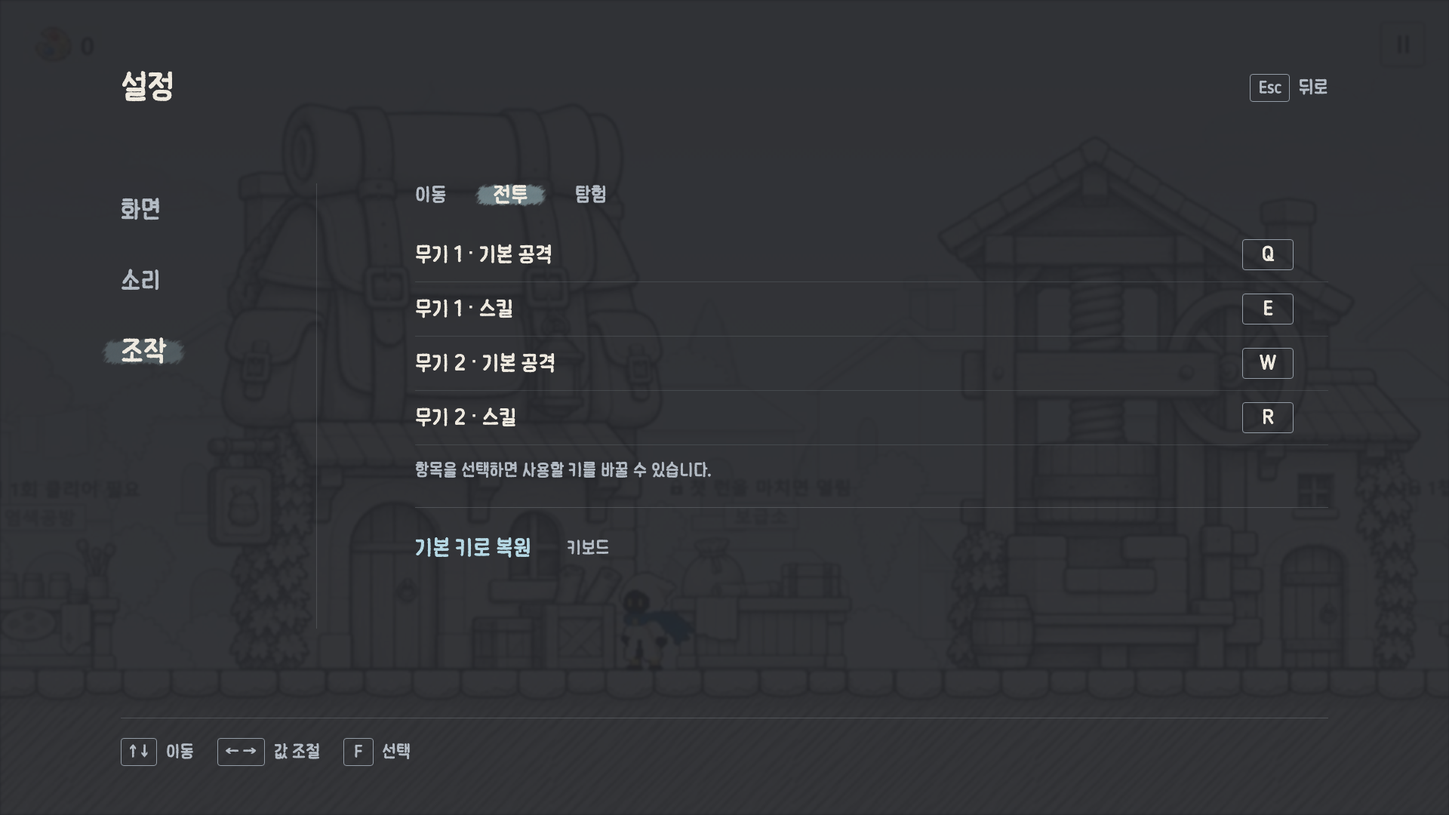
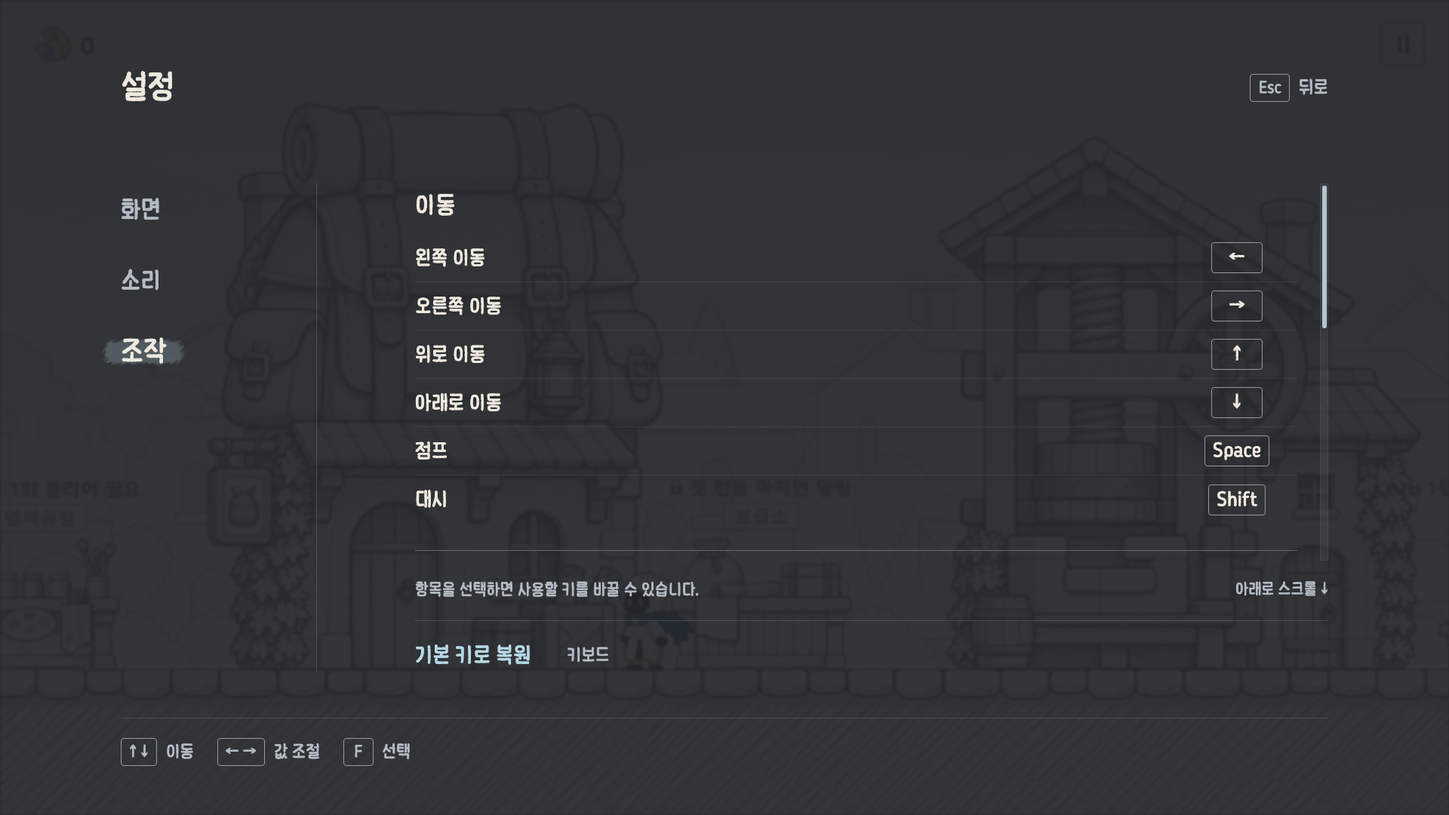
Use scrollable movement combat and exploration settings sections

diff --git a/ui/work/theme/ink-pixel-v1/catalog-data.js b/ui/work/theme/ink-pixel-v1/catalog-data.js
@@ -1,1 +1,1 @@
-const catalogItems=[{"group": "가방·장비", "title": "가방", "img": "screen-set-v6/previews/bag.png", "url": "screen-set-v6/index.html?view=bag"}, {"group": "가방·장비", "title": "가방 · 아래로 스크롤 / 빈칸", "img": "screen-set-v6/previews/bag-scroll.png", "url": "screen-set-v6/index.html?view=bag&scroll=bottom"}, {"group": "가방·장비", "title": "장비 · 무기와 스킬", "img": "screen-set-v6/previews/equipment.png", "url": "screen-set-v6/index.html?view=equipment"}, {"group": "가방·장비", "title": "장비 · 발사기", "img": "screen-set-v6/previews/equipment-launcher.png", "url": "screen-set-v6/index.html?view=equipment&weapon=1"}, {"group": "가방·장비", "title": "장비 · 스탬프 없음", "img": "screen-set-v6/previews/equipment-empty-stamps.png", "url": "screen-set-v6/index.html?view=equipment&stamps=empty"}, {"group": "가방·장비", "title": "장비 · 잉크 교체", "img": "screen-set-v6/previews/equipment-palette.png", "url": "screen-set-v6/index.html?view=equipment&slot=0"}, {"group": "가방·장비", "title": "장비 · 무색 칸", "img": "screen-set-v6/previews/equipment-neutral.png", "url": "screen-set-v6/index.html?view=equipment&slot=4"}, {"group": "가방·장비", "title": "장비 · 교체 후 상태", "img": "screen-set-v6/previews/equipment-replaced.png", "url": "screen-set-v6/index.html?view=equipment&slot=0&result=done"}, {"group": "가방·장비", "title": "가방 · 빈 카테고리", "img": "screen-set-v6/previews/bag-empty.png", "url": "screen-set-v6/index.html?view=bag&category=2"}, {"group": "정비소", "title": "성장", "img": "maintenance-growth-v2/previews/growth.png", "url": "maintenance-growth-v2/index.html?"}, {"group": "정비소", "title": "팔레트 · 칸 강화", "img": "maintenance-palette-v1/previews/unified-upgrade.png", "url": "maintenance-palette-v1/index.html?task=upgrade"}, {"group": "정비소", "title": "팔레트 · 무작위 색 변경", "img": "maintenance-palette-v1/previews/unified-color.png", "url": "maintenance-palette-v1/index.html?task=color"}, {"group": "정비소", "title": "팔레트 · 반환 공간 부족", "img": "maintenance-palette-v1/previews/random-color-full.png", "url": "maintenance-palette-v1/index.html?task=color&case=full"}, {"group": "정비소", "title": "무기 스탬프", "img": "maintenance-stamp-v1/previews/weapon.png", "url": "maintenance-stamp-v1/index.html?"}, {"group": "정비소", "title": "스킬 스탬프 · 후속타", "img": "maintenance-stamp-v1/previews/skill-followup.png", "url": "maintenance-stamp-v1/index.html?kind=skill&pick=2"}, {"group": "정비소", "title": "스탬프 · 첫 장착", "img": "maintenance-stamp-v1/previews/empty.png", "url": "maintenance-stamp-v1/index.html?case=empty"}, {"group": "정비소", "title": "스탬프 · 골드 부족", "img": "maintenance-stamp-v1/previews/poor.png", "url": "maintenance-stamp-v1/index.html?case=poor"}, {"group": "판매대", "title": "잉크 판매대", "img": "ink-shop-v1/previews/shop.png", "url": "ink-shop-v1/index.html?"}, {"group": "판매대", "title": "판매대 · 구매 후", "img": "ink-shop-v1/previews/purchased.png", "url": "ink-shop-v1/index.html?case=bought"}, {"group": "판매대", "title": "판매대 · 가방 가득 참", "img": "ink-shop-v1/previews/full.png", "url": "ink-shop-v1/index.html?case=full"}, {"group": "판매대", "title": "판매대 · 골드 부족", "img": "ink-shop-v1/previews/poor.png", "url": "ink-shop-v1/index.html?case=poor"}, {"group": "지도", "title": "전체 지도 · 새 시안", "img": "full-map-v1/previews/map.png", "url": "full-map-v1/index.html?"}, {"group": "정비소", "title": "팔레트 · 변경권 선택", "img": "maintenance-palette-v1/previews/color-ticket.png", "url": "maintenance-palette-v1/index.html?task=color&payment=ticket"}, {"group": "정비소", "title": "팔레트 · 잉크 장착·교체", "img": "maintenance-palette-v1/previews/palette-ink.png", "url": "maintenance-palette-v1/index.html?task=ink"}, {"group": "지도", "title": "지도 · 200% 확대", "img": "full-map-v1/previews/map-zoom-200.png", "url": "full-map-v1/index.html?zoom=2"}, {"group": "일시정지", "title": "전투 · 일시정지", "img": "pause-menu-v1/previews/combat.png", "url": "pause-menu-v1/index.html?context=combat"}, {"group": "일시정지", "title": "마을 · 일시정지", "img": "pause-menu-v1/previews/village.png", "url": "pause-menu-v1/index.html?context=village"}, {"group": "일시정지", "title": "조작 안내", "img": "pause-menu-v1/previews/help.png", "url": "pause-menu-v1/index.html?view=help"}, {"group": "일시정지", "title": "도전 종료 · 마을 복귀 확인", "img": "pause-menu-v1/previews/confirm.png", "url": "pause-menu-v1/index.html?view=confirm"}, {"group": "출발 준비", "title": "출발 · 첫 도면 선택", "img": "departure-v1/previews/choose.png", "url": "departure-v1/index.html?"}, {"group": "출발 준비", "title": "출발 · 두 번째 도면 선택", "img": "departure-v1/previews/second.png", "url": "departure-v1/index.html?step=2"}, {"group": "출발 준비", "title": "준비 저장 · 다시 뽑기 없음", "img": "departure-v1/previews/palette-three.png", "url": "departure-v1/index.html?view=ready"}, {"group": "출발 준비", "title": "시작 팔레트 · 5칸 / 무색 / 다시 뽑기", "img": "departure-v1/previews/palette-five.png", "url": "departure-v1/index.html?view=palette&slots=5"}, {"group": "출발 준비", "title": "출발 준비 저장", "img": "departure-v1/previews/ready.png", "url": "departure-v1/index.html?view=ready"}, {"group": "일시정지", "title": "마을 · 다시 시작 확인", "img": "pause-menu-v1/previews/restart.png", "url": "pause-menu-v1/index.html?context=village&view=restart"}, {"group": "도전 결과", "title": "일반 사망", "img": "run-result-v1/previews/death.png", "url": "run-result-v1/index.html?kind=death"}, {"group": "도전 결과", "title": "보스전 사망", "img": "run-result-v1/previews/boss.png", "url": "run-result-v1/index.html?kind=boss"}, {"group": "도전 결과", "title": "첫 챕터 클리어", "img": "run-result-v1/previews/clear.png", "url": "run-result-v1/index.html?kind=clear"}, {"group": "전투 HUD", "title": "전투 HUD · 기본", "img": "combat-hud-v2/previews/exploration.png", "url": "combat-hud-v2/index.html?"}, {"group": "전투 HUD", "title": "전투 HUD · 어두운 배경", "img": "combat-hud-v2/previews/dark.png", "url": "combat-hud-v2/index.html?scene=dark"}, {"group": "전투 HUD", "title": "전투 HUD · 획득 알림", "img": "combat-hud-v2/previews/pickup.png", "url": "combat-hud-v2/index.html?state=pickup"}, {"group": "전투 HUD", "title": "전투 HUD · 보스 배치", "img": "combat-hud-v2/previews/boss.png", "url": "combat-hud-v2/index.html?state=boss"}, {"group": "설정", "title": "소리 설정", "img": "settings-v1/previews/sound.png", "url": "settings-v1/index.html?tab=sound"}, {"group": "설정", "title": "화면 설정", "img": "settings-v1/previews/display.png", "url": "settings-v1/index.html?tab=display&state=changed"}, {"group": "설정", "title": "조작 설정 · 전투", "img": "settings-v1/previews/controls.png", "url": "settings-v1/index.html?tab=controls"}, {"group": "설정", "title": "조작키 변경", "img": "settings-v1/previews/rebind.png", "url": "settings-v1/index.html?tab=controls&state=rebind"}, {"group": "설정", "title": "화면 적용 확인", "img": "settings-v1/previews/confirm.png", "url": "settings-v1/index.html?tab=display&state=confirm"}, {"group": "재화 에셋", "title": "골드 · 마법안료 — 확정 형태", "img": "currency-v1/preview.png", "url": "currency-v1/index.html"}];
+const catalogItems=[{"group": "가방·장비", "title": "가방", "img": "screen-set-v6/previews/bag.png", "url": "screen-set-v6/index.html?view=bag"}, {"group": "가방·장비", "title": "가방 · 아래로 스크롤 / 빈칸", "img": "screen-set-v6/previews/bag-scroll.png", "url": "screen-set-v6/index.html?view=bag&scroll=bottom"}, {"group": "가방·장비", "title": "장비 · 무기와 스킬", "img": "screen-set-v6/previews/equipment.png", "url": "screen-set-v6/index.html?view=equipment"}, {"group": "가방·장비", "title": "장비 · 발사기", "img": "screen-set-v6/previews/equipment-launcher.png", "url": "screen-set-v6/index.html?view=equipment&weapon=1"}, {"group": "가방·장비", "title": "장비 · 스탬프 없음", "img": "screen-set-v6/previews/equipment-empty-stamps.png", "url": "screen-set-v6/index.html?view=equipment&stamps=empty"}, {"group": "가방·장비", "title": "장비 · 잉크 교체", "img": "screen-set-v6/previews/equipment-palette.png", "url": "screen-set-v6/index.html?view=equipment&slot=0"}, {"group": "가방·장비", "title": "장비 · 무색 칸", "img": "screen-set-v6/previews/equipment-neutral.png", "url": "screen-set-v6/index.html?view=equipment&slot=4"}, {"group": "가방·장비", "title": "장비 · 교체 후 상태", "img": "screen-set-v6/previews/equipment-replaced.png", "url": "screen-set-v6/index.html?view=equipment&slot=0&result=done"}, {"group": "가방·장비", "title": "가방 · 빈 카테고리", "img": "screen-set-v6/previews/bag-empty.png", "url": "screen-set-v6/index.html?view=bag&category=2"}, {"group": "정비소", "title": "성장", "img": "maintenance-growth-v2/previews/growth.png", "url": "maintenance-growth-v2/index.html?"}, {"group": "정비소", "title": "팔레트 · 칸 강화", "img": "maintenance-palette-v1/previews/unified-upgrade.png", "url": "maintenance-palette-v1/index.html?task=upgrade"}, {"group": "정비소", "title": "팔레트 · 무작위 색 변경", "img": "maintenance-palette-v1/previews/unified-color.png", "url": "maintenance-palette-v1/index.html?task=color"}, {"group": "정비소", "title": "팔레트 · 반환 공간 부족", "img": "maintenance-palette-v1/previews/random-color-full.png", "url": "maintenance-palette-v1/index.html?task=color&case=full"}, {"group": "정비소", "title": "무기 스탬프", "img": "maintenance-stamp-v1/previews/weapon.png", "url": "maintenance-stamp-v1/index.html?"}, {"group": "정비소", "title": "스킬 스탬프 · 후속타", "img": "maintenance-stamp-v1/previews/skill-followup.png", "url": "maintenance-stamp-v1/index.html?kind=skill&pick=2"}, {"group": "정비소", "title": "스탬프 · 첫 장착", "img": "maintenance-stamp-v1/previews/empty.png", "url": "maintenance-stamp-v1/index.html?case=empty"}, {"group": "정비소", "title": "스탬프 · 골드 부족", "img": "maintenance-stamp-v1/previews/poor.png", "url": "maintenance-stamp-v1/index.html?case=poor"}, {"group": "판매대", "title": "잉크 판매대", "img": "ink-shop-v1/previews/shop.png", "url": "ink-shop-v1/index.html?"}, {"group": "판매대", "title": "판매대 · 구매 후", "img": "ink-shop-v1/previews/purchased.png", "url": "ink-shop-v1/index.html?case=bought"}, {"group": "판매대", "title": "판매대 · 가방 가득 참", "img": "ink-shop-v1/previews/full.png", "url": "ink-shop-v1/index.html?case=full"}, {"group": "판매대", "title": "판매대 · 골드 부족", "img": "ink-shop-v1/previews/poor.png", "url": "ink-shop-v1/index.html?case=poor"}, {"group": "지도", "title": "전체 지도 · 새 시안", "img": "full-map-v1/previews/map.png", "url": "full-map-v1/index.html?"}, {"group": "정비소", "title": "팔레트 · 변경권 선택", "img": "maintenance-palette-v1/previews/color-ticket.png", "url": "maintenance-palette-v1/index.html?task=color&payment=ticket"}, {"group": "정비소", "title": "팔레트 · 잉크 장착·교체", "img": "maintenance-palette-v1/previews/palette-ink.png", "url": "maintenance-palette-v1/index.html?task=ink"}, {"group": "지도", "title": "지도 · 200% 확대", "img": "full-map-v1/previews/map-zoom-200.png", "url": "full-map-v1/index.html?zoom=2"}, {"group": "일시정지", "title": "전투 · 일시정지", "img": "pause-menu-v1/previews/combat.png", "url": "pause-menu-v1/index.html?context=combat"}, {"group": "일시정지", "title": "마을 · 일시정지", "img": "pause-menu-v1/previews/village.png", "url": "pause-menu-v1/index.html?context=village"}, {"group": "일시정지", "title": "조작 안내", "img": "pause-menu-v1/previews/help.png", "url": "pause-menu-v1/index.html?view=help"}, {"group": "일시정지", "title": "도전 종료 · 마을 복귀 확인", "img": "pause-menu-v1/previews/confirm.png", "url": "pause-menu-v1/index.html?view=confirm"}, {"group": "출발 준비", "title": "출발 · 첫 도면 선택", "img": "departure-v1/previews/choose.png", "url": "departure-v1/index.html?"}, {"group": "출발 준비", "title": "출발 · 두 번째 도면 선택", "img": "departure-v1/previews/second.png", "url": "departure-v1/index.html?step=2"}, {"group": "출발 준비", "title": "준비 저장 · 다시 뽑기 없음", "img": "departure-v1/previews/palette-three.png", "url": "departure-v1/index.html?view=ready"}, {"group": "출발 준비", "title": "시작 팔레트 · 5칸 / 무색 / 다시 뽑기", "img": "departure-v1/previews/palette-five.png", "url": "departure-v1/index.html?view=palette&slots=5"}, {"group": "출발 준비", "title": "출발 준비 저장", "img": "departure-v1/previews/ready.png", "url": "departure-v1/index.html?view=ready"}, {"group": "일시정지", "title": "마을 · 다시 시작 확인", "img": "pause-menu-v1/previews/restart.png", "url": "pause-menu-v1/index.html?context=village&view=restart"}, {"group": "도전 결과", "title": "일반 사망", "img": "run-result-v1/previews/death.png", "url": "run-result-v1/index.html?kind=death"}, {"group": "도전 결과", "title": "보스전 사망", "img": "run-result-v1/previews/boss.png", "url": "run-result-v1/index.html?kind=boss"}, {"group": "도전 결과", "title": "첫 챕터 클리어", "img": "run-result-v1/previews/clear.png", "url": "run-result-v1/index.html?kind=clear"}, {"group": "전투 HUD", "title": "전투 HUD · 기본", "img": "combat-hud-v2/previews/exploration.png", "url": "combat-hud-v2/index.html?"}, {"group": "전투 HUD", "title": "전투 HUD · 어두운 배경", "img": "combat-hud-v2/previews/dark.png", "url": "combat-hud-v2/index.html?scene=dark"}, {"group": "전투 HUD", "title": "전투 HUD · 획득 알림", "img": "combat-hud-v2/previews/pickup.png", "url": "combat-hud-v2/index.html?state=pickup"}, {"group": "전투 HUD", "title": "전투 HUD · 보스 배치", "img": "combat-hud-v2/previews/boss.png", "url": "combat-hud-v2/index.html?state=boss"}, {"group": "설정", "title": "소리 설정", "img": "settings-v1/previews/sound.png", "url": "settings-v1/index.html?tab=sound"}, {"group": "설정", "title": "화면 설정", "img": "settings-v1/previews/display.png", "url": "settings-v1/index.html?tab=display&state=changed"}, {"group": "설정", "title": "조작 설정 · 이동 / 스크롤 상단", "img": "settings-v1/previews/controls.png", "url": "settings-v1/index.html?tab=controls"}, {"group": "설정", "title": "조작 설정 · 전투 / 스크롤 중간", "img": "settings-v1/previews/controls-combat.png", "url": "settings-v1/index.html?tab=controls&scroll=combat"}, {"group": "설정", "title": "조작 설정 · 탐험 / 스크롤 하단", "img": "settings-v1/previews/controls-explore.png", "url": "settings-v1/index.html?tab=controls&scroll=bottom"}, {"group": "설정", "title": "조작키 변경", "img": "settings-v1/previews/rebind.png", "url": "settings-v1/index.html?tab=controls&state=rebind"}, {"group": "설정", "title": "화면 적용 확인", "img": "settings-v1/previews/confirm.png", "url": "settings-v1/index.html?tab=display&state=confirm"}, {"group": "재화 에셋", "title": "골드 · 마법안료 — 확정 형태", "img": "currency-v1/preview.png", "url": "currency-v1/index.html"}];

diff --git a/ui/work/theme/ink-pixel-v1/settings-v1/settings.js b/ui/work/theme/ink-pixel-v1/settings-v1/settings.js
@@ -1,15 +1,22 @@
-const $=s=>document.querySelector(s),params=new URLSearchParams(location.search);let tab=['display','sound','controls'].includes(params.get('tab'))?params.get('tab'):'sound',group='combat',capture=null,timer=null;
+const $=s=>document.querySelector(s),params=new URLSearchParams(location.search);let tab=['display','sound','controls'].includes(params.get('tab'))?params.get('tab'):'sound',capture=null,timer=null,controlsScroll=0;
 const defaults={master:80,music:60,title:true};let sound={...defaults};try{sound={...defaults,...JSON.parse(localStorage.getItem('deviant-review-sound')||'{}')}}catch{}
 let saved={mode:0,res:0},draft={...saved};const modes=['전체 화면','테두리 없는 창','창 모드'],resolutions=['1920 × 1080','1600 × 900','1280 × 720'];
 const bindings={combat:[['무기 1 · 기본 공격','Q'],['무기 1 · 스킬','E'],['무기 2 · 기본 공격','W'],['무기 2 · 스킬','R']],move:[['왼쪽 이동','←'],['오른쪽 이동','→'],['위로 이동','↑'],['아래로 이동','↓'],['점프','Space'],['대시','Shift']],explore:[['상호작용','F'],['가방 · 장비','I'],['전체 지도','M'],['포탈 1 설치','C'],['포탈 2 설치','V']]};const original=JSON.parse(JSON.stringify(bindings));
 function saveSound(){try{localStorage.setItem('deviant-review-sound',JSON.stringify(sound))}catch{}$('#status').textContent='변경 내용 저장됨'}
 function dirty(){return draft.mode!==saved.mode||draft.res!==saved.res}
 function options(id,value,label){return `<div class="options"><button data-step="${id}:-1" aria-label="${label} 이전">←</button><span class="value" id="${id}Value">${value}</span><button data-step="${id}:1" aria-label="${label} 다음">→</button></div>`}
-function render(){capture=null;$('#status').textContent='';document.querySelectorAll('[data-tab]').forEach(b=>{b.classList.toggle('navActive',b.dataset.tab===tab);b.setAttribute('aria-current',b.dataset.tab===tab?'page':'false')});const c=$('#content');
+function render(){if($('#controlsScroll'))controlsScroll=$('#controlsScroll').scrollTop;capture=null;$('#status').textContent='';document.querySelectorAll('[data-tab]').forEach(b=>{b.classList.toggle('navActive',b.dataset.tab===tab);b.setAttribute('aria-current',b.dataset.tab===tab?'page':'false')});const c=$('#content');
 if(tab==='sound'){c.innerHTML='<p class="eyebrow">소리 크기</p>'+[['master','전체 음량'],['music','배경 음악']].map(([id,label])=>`<label class="row"><span class="name">${label}</span><span class="sliderWrap"><span class="rangeBox" style="--value:${sound[id]}%"><input type="range" id="${id}" min="0" max="100" step="10" value="${sound[id]}" aria-label="${label}"></span><output for="${id}">${sound[id]}%</output></span></label>`).join('')+`<div class="row"><span class="name">타이틀 효과음</span>${options('title',sound.title?'켜짐':'꺼짐','타이틀 효과음')}</div><div class="actions"><span>소리 설정은 조절한 값으로 바로 저장됩니다.</span></div>`;
 c.querySelectorAll('input').forEach(i=>i.oninput=()=>{sound[i.id]=Number(i.value);i.parentElement.style.setProperty('--value',i.value+'%');i.closest('.sliderWrap').querySelector('output').textContent=i.value+'%';saveSound()})}
 if(tab==='display'){c.innerHTML=`<p class="eyebrow">화면 표시</p><div class="row"><span class="name">창 모드</span>${options('mode',modes[draft.mode],'창 모드')}</div><div class="row"><span class="name">해상도</span>${options('res',resolutions[draft.res],'해상도')}</div><div class="actions"><button id="apply" ${dirty()?'':'disabled'}>적용</button><span id="displayHint">${dirty()?'변경한 화면 설정을 적용합니다.':'현재 설정과 같습니다.'}</span></div>`;$('#apply').onclick=applyDisplay}
-if(tab==='controls'){c.innerHTML=`<div class="tabsSmall" aria-label="조작 분류">${[['move','이동'],['combat','전투'],['explore','탐험']].map(([id,name])=>`<button class="tabSmall ${group===id?'active':''}" data-group="${id}">${name}</button>`).join('')}</div>${bindings[group].map(([name,key],i)=>`<button class="row keyRow" data-bind="${i}"><span class="name">${name}</span><span class="binding"><kbd>${key}</kbd></span></button>`).join('')}<div class="controlHint" id="controlHint">항목을 선택하면 사용할 키를 바꿀 수 있습니다.</div><div class="actions" style="margin-top:24px"><button id="reset">기본 키로 복원</button><span>키보드</span></div>`;c.querySelectorAll('[data-group]').forEach(b=>b.onclick=()=>{group=b.dataset.group;render();$(`[data-group="${group}"]`).focus()});c.querySelectorAll('[data-bind]').forEach(b=>b.onclick=()=>{capture=Number(b.dataset.bind);b.querySelector('.binding').innerHTML='새 키를 누르세요';b.querySelector('.binding').classList.add('waiting');$('#controlHint').textContent='Esc를 누르면 취소합니다.';b.focus()});$('#reset').onclick=()=>modal('기본 키로 복원할까요?','변경한 키보드 조작키가 모두 기본값으로 돌아갑니다.','취소','복원',()=>{Object.keys(bindings).forEach(k=>bindings[k]=JSON.parse(JSON.stringify(original[k])));render();$('#reset').focus()})}
+if(tab==='controls'){
+c.innerHTML=`<div id="controlsScroll" class="controlsScroll" aria-label="키보드 조작 설정">${[['move','이동'],['combat','전투'],['explore','탐험']].map(([id,title])=>`<section class="controlSection" id="section-${id}" aria-labelledby="heading-${id}"><h2 id="heading-${id}">${title}</h2>${bindings[id].map(([name,key],i)=>`<button class="row keyRow" data-bind="${id}:${i}"><span class="name">${name}</span><span class="binding"><kbd>${key}</kbd></span></button>`).join('')}</section>`).join('')}</div><div class="scrollMeta"><span id="controlHint" role="status">항목을 선택하면 사용할 키를 바꿀 수 있습니다.</span><span id="scrollHint">아래로 스크롤 ↓</span></div><div class="actions controlActions"><button id="reset">기본 키로 복원</button><span>키보드</span></div>`;
+$('#controlsScroll').scrollTop=controlsScroll;
+$('#controlsScroll').onscroll=()=>{const el=$('#controlsScroll');controlsScroll=el.scrollTop;$('#scrollHint').textContent=el.scrollTop+el.clientHeight>=el.scrollHeight-2?'맨 아래':'아래로 스크롤 ↓'};
+$('#controlsScroll').onscroll();
+c.querySelectorAll('[data-bind]').forEach(b=>{b.onfocus=()=>revealBinding(b);b.onclick=()=>{capture=b.dataset.bind;b.querySelector('.binding').textContent='새 키를 누르세요';b.querySelector('.binding').classList.add('waiting');$('#controlHint').textContent='Esc를 누르면 취소합니다.';$('#controlHint').classList.remove('error');b.focus()}});
+$('#reset').onclick=()=>modal('기본 키로 복원할까요?','변경한 키보드 조작키가 모두 기본값으로 돌아갑니다.','취소','복원',()=>{Object.keys(bindings).forEach(k=>bindings[k]=JSON.parse(JSON.stringify(original[k])));render();$('#reset').focus()});
+}
 c.querySelectorAll('[data-step]').forEach(b=>b.onclick=()=>step(b.dataset.step));}
 function step(s){const [id,n]=s.split(':');if(id==='title'){sound.title=!sound.title;$('#titleValue').textContent=sound.title?'켜짐':'꺼짐';saveSound();return}const values=id==='mode'?modes:resolutions;draft[id]=(draft[id]+Number(n)+values.length)%values.length;$('#'+id+'Value').textContent=values[draft[id]];$('#apply').disabled=!dirty();$('#displayHint').textContent=dirty()?'변경한 화면 설정을 적용합니다.':'현재 설정과 같습니다.'}
 function modal(title,body,cancelLabel,confirmLabel,confirm,cancel=()=>{}){clearInterval(timer);$('#dialogTitle').textContent=title;$('#dialogBody').innerHTML=body;$('#cancel').textContent=cancelLabel;$('#confirm').textContent=confirmLabel;const close=fn=>{clearInterval(timer);$('#dialog').close();fn()};$('#cancel').onclick=()=>close(cancel);$('#confirm').onclick=()=>close(confirm);$('#dialog').oncancel=e=>{e.preventDefault();close(cancel)};$('#dialog').showModal();$('#cancel').focus()}
@@ -17,7 +24,10 @@ function applyDisplay(){if(!dirty())return;let seconds=10;const rollback=()=>{dr
 function switchTab(next){const go=()=>{tab=next;render();$(`[data-tab="${tab}"]`).focus()};if(tab==='display'&&dirty())modal('변경한 설정을 적용하지 않았어요.','변경을 취소하고 다른 설정으로 이동할까요?','계속 설정','변경 취소',()=>{draft={...saved};go()});else go()}
 document.querySelectorAll('[data-tab]').forEach(b=>b.onclick=()=>switchTab(b.dataset.tab));
 function leave(){const go=()=>{if(params.get('from')==='pause')location.href='../pause-menu-v1/index.html?context='+(params.get('context')==='village'?'village':'combat')+'&focus=settings';else if(parent!==window)parent.postMessage({type:'deviant-close'},'*');else $('#status').textContent='설정 검토를 마쳤습니다.'};if(dirty())modal('변경한 설정을 적용하지 않았어요.','변경을 취소하고 돌아갈까요?','계속 설정','변경 취소',()=>{draft={...saved};go()});else go()}$('#close').onclick=leave;
-document.addEventListener('keydown',e=>{if(capture!==null){e.preventDefault();if(e.key==='Escape'){const i=capture;capture=null;render();$(`[data-bind="${i}"]`).focus();return}if(e.repeat)return;const code={ArrowLeft:'←',ArrowRight:'→',ArrowUp:'↑',ArrowDown:'↓',' ':'Space',Shift:'Shift'}[e.key]||e.key.toUpperCase();if(['TAB','ENTER','CONTROL','ALT','META'].includes(code)){ $('#controlHint').textContent='메뉴에서 사용하는 키입니다. 다른 키를 선택하세요.';return}if(Object.values(bindings).flat().some(v=>v[1]===code)){ $('#controlHint').textContent='이미 사용 중인 키입니다. 다른 키를 선택하세요.';$('#controlHint').classList.add('error');return}const i=capture;bindings[group][i][1]=code;capture=null;render();$(`[data-bind="${i}"]`).focus();$('#status').textContent='조작키 변경됨';return}
+document.addEventListener('keydown',e=>{if(capture!==null){e.preventDefault();if(e.key==='Escape'){const i=capture;capture=null;render();$(`[data-bind="${i}"]`).focus();return}if(e.repeat)return;const code={ArrowLeft:'←',ArrowRight:'→',ArrowUp:'↑',ArrowDown:'↓',' ':'Space',Shift:'Shift'}[e.key]||e.key.toUpperCase();if(['TAB','ENTER','CONTROL','ALT','META'].includes(code)){ $('#controlHint').textContent='메뉴에서 사용하는 키입니다. 다른 키를 선택하세요.';return}if(Object.values(bindings).flat().some(v=>v[1]===code)){ $('#controlHint').textContent='이미 사용 중인 키입니다. 다른 키를 선택하세요.';$('#controlHint').classList.add('error');return}const i=capture;const [g,n]=i.split(':');bindings[g][Number(n)][1]=code;capture=null;render();$(`[data-bind="${i}"]`).focus();$('#status').textContent='조작키 변경됨';return}
 if($('#dialog').open){if(['ArrowLeft','ArrowRight'].includes(e.key)){e.preventDefault();(document.activeElement===$('#cancel')?$('#confirm'):$('#cancel')).focus()}if(e.key.toLowerCase()==='f'){e.preventDefault();document.activeElement.click()}return}
 if(e.key==='Escape'){e.preventDefault();leave();return}if(e.key.toLowerCase()==='f'&&document.activeElement.tagName==='BUTTON'){e.preventDefault();document.activeElement.click();return}if(['ArrowUp','ArrowDown'].includes(e.key)){e.preventDefault();const all=[...document.querySelectorAll('nav button,#content button:not(:disabled),#content input')];let i=all.indexOf(document.activeElement);all[(i+(e.key==='ArrowDown'?1:-1)+all.length)%all.length].focus()}if(['ArrowLeft','ArrowRight'].includes(e.key)&&document.activeElement.matches('[data-step]')){e.preventDefault();step(document.activeElement.dataset.step.split(':')[0]+':'+(e.key==='ArrowRight'?1:-1))}if(e.key==='ArrowRight'&&document.activeElement.matches('nav button')){e.preventDefault();$('#content input,#content button:not(:disabled)')?.focus()}});
-function fit(){$('.screen').style.transform=`scale(${Math.min(innerWidth/1920,innerHeight/1080)})`}onresize=fit;render();fit();if(params.get('state')==='confirm'){tab='display';draft.mode=1;render();applyDisplay()}else if(params.get('state')==='changed'){tab='display';draft.mode=1;render()}else if(params.get('state')==='rebind'){tab='controls';render();$('[data-bind="0"]').click()}else if(tab==='sound')$('#master').focus();
+function fit(){$('.screen').style.transform=`scale(${Math.min(innerWidth/1920,innerHeight/1080)})`}onresize=fit;render();fit();if(params.get('state')==='confirm'){tab='display';draft.mode=1;render();applyDisplay()}else if(params.get('state')==='changed'){tab='display';draft.mode=1;render()}else if(params.get('state')==='rebind'){tab='controls';render();$('[data-bind="combat:0"]').click()}else if(tab==='sound')$('#master').focus();
+
+function revealBinding(button){const el=$('#controlsScroll');if(!el)return;const box=el.getBoundingClientRect(),r=button.getBoundingClientRect(),scale=box.height/el.clientHeight;if(r.top<box.top+12*scale)el.scrollTop-=(box.top+12*scale-r.top)/scale;else if(r.bottom>box.bottom-12*scale)el.scrollTop+=(r.bottom-box.bottom+12*scale)/scale;}
+if(tab==='controls'&&params.get('state')!=='rebind'){const section=params.get('scroll')==='bottom'?'explore':params.get('scroll')==='combat'?'combat':'move';const el=$('#controlsScroll');el.scrollTop=section==='explore'?el.scrollHeight:section==='combat'?$('#section-combat').offsetTop-el.offsetTop:0;controlsScroll=el.scrollTop;el.onscroll();}

diff --git a/ui/work/theme/ink-pixel-v1/settings-v1/style.css b/ui/work/theme/ink-pixel-v1/settings-v1/style.css
@@ -2,3 +2,13 @@
 /* Six movement bindings remain above the shared footer. */
 .keyRow{min-height:72px}
 dialog{background:transparent;border:0;padding:66px 70px}.dialogActions button{position:relative;isolation:isolate;transform-origin:left center}.dialogActions button:focus{transform:scale(1.1);text-decoration:none}.dialogActions button:focus:before{content:'';position:absolute;inset:-10px -22px;background:url('../maintenance-palette-v1/assets/selection-wash-v1.png') center/100% 100% no-repeat;opacity:.6;z-index:-1}
+
+/* A continuous keyboard list; sidebar and action strip stay in place. */
+.controlsScroll{height:520px;overflow-y:auto;overscroll-behavior:contain;padding:10px 30px 12px 24px;margin-left:-24px;scrollbar-width:thin;scrollbar-color:#b5c5cc #a8afb619;scroll-padding-block:12px}
+.controlsScroll::-webkit-scrollbar{width:7px}.controlsScroll::-webkit-scrollbar-track{background:#a8afb619}.controlsScroll::-webkit-scrollbar-thumb{background:#9cabb3;border-radius:4px}
+.controlSection+ .controlSection{border-top:1px solid #a8afb675;margin-top:35px;padding-top:28px}
+.controlSection h2{font-size:31px;font-weight:normal;color:var(--paper);margin:0 0 18px;letter-spacing:1px}
+.controlsScroll .keyRow{min-height:64px;border-bottom:1px solid #a8afb61a}.controlsScroll .keyRow:last-child{border-bottom:0}.controlsScroll .name{font-size:28px}.controlsScroll .keyRow:focus .name{transform:scale(1.1)}
+.controlsScroll .keyRow:focus .name:before{content:'';position:absolute;inset:-10px -24px;background:url('../maintenance-palette-v1/assets/selection-wash-v1.png') center/100% 100% no-repeat;z-index:-1;opacity:.65;pointer-events:none}
+.scrollMeta{display:flex;justify-content:space-between;gap:25px;font-size:23px;line-height:1.5;color:var(--muted);padding-top:22px;min-height:59px}.scrollMeta #scrollHint{white-space:nowrap;font-size:22px;color:var(--muted)}.controlActions{margin-top:20px;padding-top:24px;min-height:68px}
+.controlsScroll{height:500px}.controlSection h2{font-size:34px}

diff --git a/ui/work/theme/ink-pixel-v1/settings-v1/README.md b/ui/work/theme/ink-pixel-v1/settings-v1/README.md
@@ -20,7 +20,9 @@ Unity 미적용. 실행 가능한 HTML 디자인 검토본.
 - `?tab=sound`: 전체 음량·배경 음악·타이틀 효과음. 로컬 브라우저의 검토 전용 값만 즉시 저장. 실제 음원 재생 없음.
 - `?tab=display&state=changed`: 창 모드·해상도 변경 → 적용.
 - `?tab=display&state=confirm`: 유지/되돌리기, 10초 자동 복귀.
-- `?tab=controls`: 이동·전투·탐험. 실제 기본 키 기준.
+- `?tab=controls`: 이동 → 전투 → 탐험의 연속 스크롤 목록. 하위 탭 없음. 실제 기본 키 기준.
+- `?tab=controls&scroll=combat`: 전투 섹션 위치.
+- `?tab=controls&scroll=bottom`: 탐험 섹션을 포함한 목록 하단.
 - `?tab=controls&state=rebind`: 새 키 입력 대기. 중복 키는 거부, Esc 취소.
 - 화면 설정 변경 중 다른 분류/뒤로 선택 시 변경 취소 확인.
 - 일시정지 → 설정 → 뒤로 연결. 설정 메뉴로 선택 복귀.
@@ -30,3 +32,6 @@ Unity 미적용. 실행 가능한 HTML 디자인 검토본.
 
 ## 후속 결정
 실제 지원 해상도·창 모드, 디스플레이 복귀 제한 시간, 패드 전용 설정 범위는 구현 담당자와 확정 필요. 현재는 디자인 검토를 진행할 수 있는 대표값으로 표시.
+
+## 스크롤 개정
+오른쪽 목록만 500px 높이로 스크롤. 세 섹션 사이 구분선, 고정 복원 버튼·조작 안내, 스크롤바와 하단 위치 안내. 15개 항목의 키보드 이동 시 자동 스크롤과 키 변경·취소 후 위치 유지 검증.
